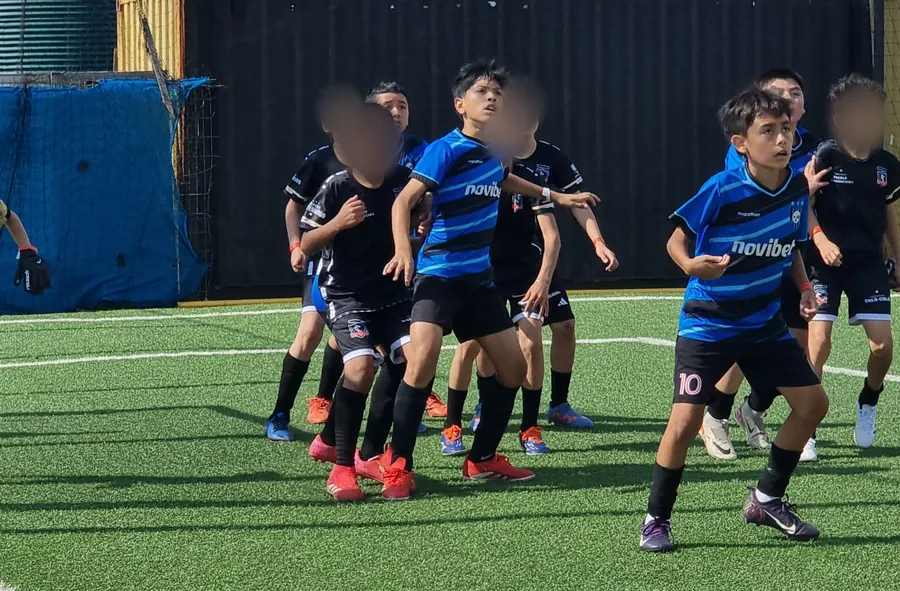
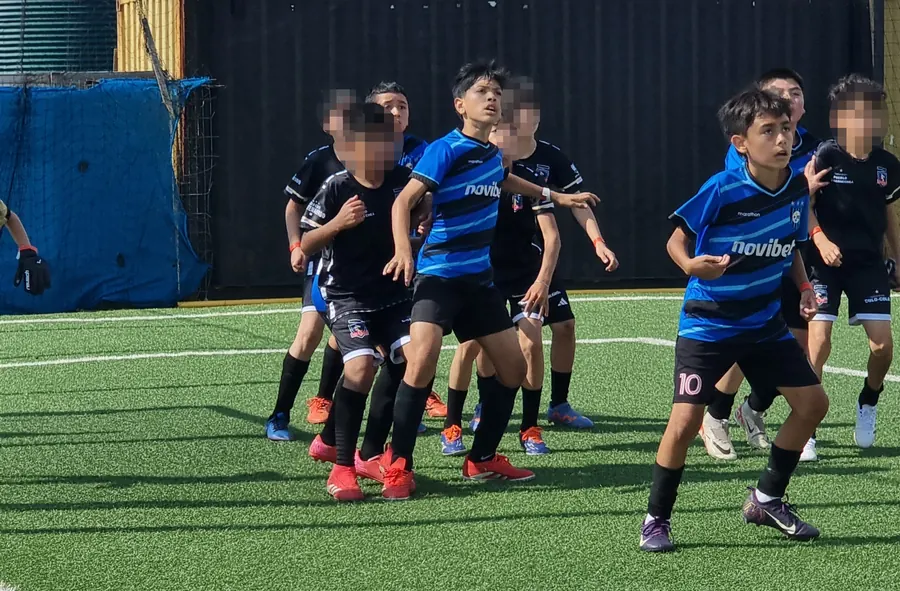
Launch on huachipatohuechuraba.cl, fix hidden footer, cleaner face masking
- Footer was left invisible on desktop (reveal observer never fired for the
  last element, so the designer credit was hidden): footer no longer animates
  and a scroll fallback reveals everything at the bottom of the page
- Canonical, og:url/og:image, twitter:image, JSON-LD and privacy canonical now
  use the new domain; og image cache bumped to v=23
- Add robots.txt (blocks AI-training crawlers) and sitemap.xml
- vercel.json: permanent redirect from the old vercel.app host;
  nginx.conf: www -> apex redirect, cache for robots/sitemap
- Faces of other teams' children use a crisp pixel mosaic instead of a blur
  smudge; tighter masks in the celebration photo
- README: launch checklist updated

Claude-Session: https://claude.ai/code/session_011eyvAs4fngz4Cg1aUHWy3E

Changed region(s): [[0.3422, 0.1523, 0.4667, 0.3046], [0.9022, 0.1523, 0.9956, 0.2741], [0.5289, 0.1523, 0.6222, 0.2741]]

diff --git a/index.html b/index.html
@@ -7,7 +7,7 @@
   <title>Escuela de Fútbol en Huechuraba, Santiago | Huachipato Huechuraba</title>
   <meta name="description" content="Huachipato Huechuraba, escuela de fútbol en Huechuraba, Santiago. Categorías Sub-7 a Sub-15, entrenamientos lunes y miércoles, clase de prueba y formación integral para niños y jóvenes." />
   <meta name="robots" content="index,follow" />
-  <link rel="canonical" href="https://huachipato-huechuraba.vercel.app/" />
+  <link rel="canonical" href="https://huachipatohuechuraba.cl/" />
   <link rel="icon" href="favicon.ico" sizes="32x32" />
   <link rel="icon" type="image/png" sizes="64x64" href="assets/favicon-64.png" />
   <link rel="manifest" href="site.webmanifest" />
@@ -22,8 +22,8 @@
   <meta property="og:locale" content="es_CL" />
   <meta property="og:title" content="Huachipato Huechuraba | Escuela de fútbol en Huechuraba, Santiago" />
   <meta property="og:description" content="Escuela de fútbol formativo y competitivo en Huechuraba, Santiago. Sub-7 a Sub-15, clase de prueba, metodología y seguimiento del jugador." />
-  <meta property="og:url" content="https://huachipato-huechuraba.vercel.app/" />
-  <meta property="og:image" content="https://huachipato-huechuraba.vercel.app/og-huachipato.jpg?v=22" />
+  <meta property="og:url" content="https://huachipatohuechuraba.cl/" />
+  <meta property="og:image" content="https://huachipatohuechuraba.cl/og-huachipato.jpg?v=23" />
   <meta property="og:image:width" content="1200" />
   <meta property="og:image:height" content="630" />
   <meta property="og:image:alt" content="Plantel de Huachipato Huechuraba con su lienzo y copa" />
@@ -31,7 +31,7 @@
   <meta name="twitter:card" content="summary_large_image" />
   <meta name="twitter:title" content="Huachipato Huechuraba | Escuela de fútbol en Huechuraba" />
   <meta name="twitter:description" content="Fútbol formativo en Huechuraba, Santiago. Sub-7 a Sub-15, clase de prueba y entrenamiento competitivo." />
-  <meta name="twitter:image" content="https://huachipato-huechuraba.vercel.app/og-huachipato.jpg?v=22" />
+  <meta name="twitter:image" content="https://huachipatohuechuraba.cl/og-huachipato.jpg?v=23" />
   <meta name="twitter:image:alt" content="Plantel de Huachipato Huechuraba con su lienzo y copa" />
 
   <script type="application/ld+json">
@@ -40,7 +40,7 @@
     "@type":"SportsActivityLocation",
     "name":"Huachipato Huechuraba",
     "description":"Escuela de fútbol formativo y competitivo para niños y jóvenes en Huechuraba, Santiago.",
-    "url":"https://huachipato-huechuraba.vercel.app/",
+    "url":"https://huachipatohuechuraba.cl/",
     "telephone":"+56 9 4591 1596",
     "sport":"Football",
     "address":{
@@ -51,8 +51,8 @@
       "addressCountry":"CL"
     },
     "areaServed":"Huechuraba, Santiago, Chile",
-    "logo":"https://huachipato-huechuraba.vercel.app/assets/huachipato-crest.png",
-    "image":"https://huachipato-huechuraba.vercel.app/og-huachipato.jpg",
+    "logo":"https://huachipatohuechuraba.cl/assets/huachipato-crest.png",
+    "image":"https://huachipatohuechuraba.cl/og-huachipato.jpg",
     "sameAs":["https://www.instagram.com/escuela.huachipato.huechuraba/"],
     "openingHoursSpecification":[{
       "@type":"OpeningHoursSpecification",
@@ -1122,7 +1122,6 @@
         markGroup('.location > .container > .eyebrow, .location > .container > .title, .loc-card, .map',75);
         markGroup('.faq-wrap > div:first-child > *, .faq-item',60);
         markGroup('.instagram-brandline, .instagram-row > .btn',80);
-        markGroup('footer .footer-grid > *, .footer-bottom',60);
 
         var observer=new IntersectionObserver(function(entries,obs){
           entries.forEach(function(entry){
@@ -1146,6 +1145,13 @@
         document.querySelectorAll('.reveal-on-scroll').forEach(function(el){
           observer.observe(el);
         });
+
+        /* Respaldo: el observador no ve lo que queda pegado al borde inferior de la página */
+        window.addEventListener('scroll',function(){
+          if(window.innerHeight+window.scrollY>=document.documentElement.scrollHeight-8){
+            document.querySelectorAll('.reveal-on-scroll:not(.is-visible)').forEach(function(el){el.classList.add('is-visible');});
+          }
+        },{passive:true});
       }
 
       /* Navegación: marca la sección visible */

diff --git a/privacidad.html b/privacidad.html
@@ -7,7 +7,7 @@
   <title>Privacidad y uso de imágenes | Huachipato Huechuraba</title>
   <meta name="description" content="Cómo trata Huachipato Huechuraba los datos de contacto y las imágenes de niños, niñas y adolescentes, y cómo ejercer tus derechos." />
   <meta name="robots" content="index,follow" />
-  <link rel="canonical" href="https://huachipato-huechuraba.vercel.app/privacidad" />
+  <link rel="canonical" href="https://huachipatohuechuraba.cl/privacidad" />
   <link rel="icon" href="/favicon.ico" sizes="32x32" />
   <link rel="icon" type="image/png" sizes="64x64" href="/assets/favicon-64.png" />
   <style>

diff --git a/README.md b/README.md
@@ -1,6 +1,6 @@
 # Huachipato Huechuraba — Landing
 
-Sitio estático single-file desplegado en Vercel: https://huachipato-huechuraba.vercel.app/
+Sitio estático single-file: https://huachipatohuechuraba.cl/ (EasyPanel; antes en Vercel).
 
 ## Estructura
 
@@ -48,12 +48,16 @@ Probado localmente con nginx: `/` 200, `/privacidad` 200, `/privacidad.html` red
 
 ## Checklist de lanzamiento (dominio propio)
 
-1. Vercel → Project → Settings → Domains: agregar el dominio y copiar los registros DNS que indique (A para el apex, CNAME para `www`). Dejar un solo dominio principal; el otro redirige.
-2. Reemplazar `huachipato-huechuraba.vercel.app` por el dominio nuevo en `index.html` (canonical, og:url, og:image, twitter:image, JSON-LD) y crear `robots.txt` + `sitemap.xml` con el dominio nuevo.
-3. Agregar en `vercel.json` una redirección permanente desde `huachipato-huechuraba.vercel.app` al dominio nuevo.
-4. Google Search Console: propiedad de dominio (TXT en DNS) → enviar `sitemap.xml` → "Inspeccionar URL" de la portada → "Solicitar indexación".
-5. Google Business Profile (ficha de la escuela, mismo nombre/dirección/teléfono que la web) y enlace de la web en Instagram.
-6. Actualizar el enlace en WhatsApp Business y redes; refrescar la vista previa con el depurador de Facebook (Scrape Again).
+Hecho: dominio `huachipatohuechuraba.cl` inscrito en NIC Chile, DNS en Cloudflare (registros A a la IP del VPS, sin proxy), etiquetas canónicas, `robots.txt`, `sitemap.xml` y redirección de `www` al dominio principal.
+
+Pendiente (los hace el cliente o el prestador con su cuenta):
+
+1. Google Search Console: propiedad de dominio (registro TXT en Cloudflare) -> enviar `https://huachipatohuechuraba.cl/sitemap.xml` -> "Inspeccionar URL" de la portada -> "Solicitar indexación".
+2. Google Business Profile (ficha de la escuela con el mismo nombre, dirección y teléfono que la web) y el enlace del sitio en la ficha.
+3. Enlace del sitio en la bio de Instagram y en WhatsApp Business.
+4. Refrescar la vista previa al compartir con el depurador de Facebook (Scrape Again).
+5. Bing Webmaster Tools (importar desde Search Console).
+6. Si se quita el sitio de Vercel, eliminar ese proyecto para no tener contenido duplicado.
 
 ## Métricas de referencia (Lighthouse, local sin compresión)
 
